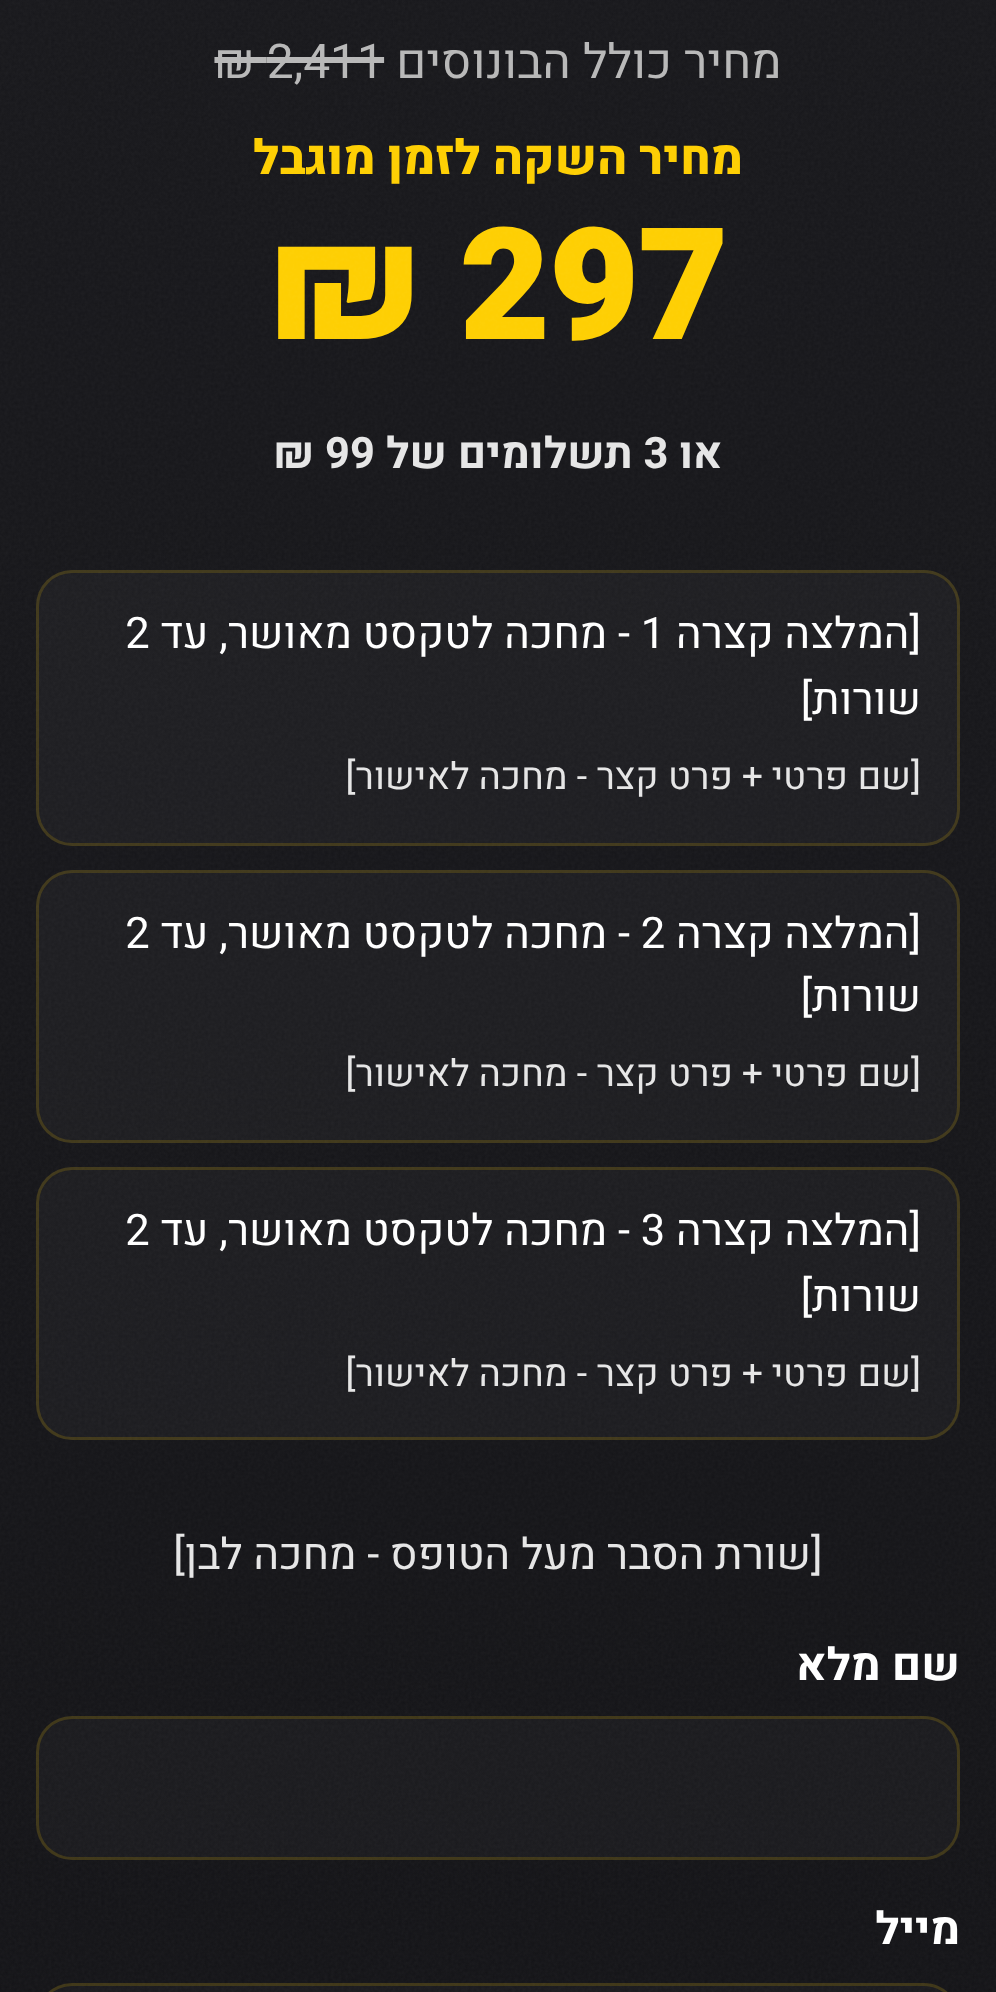
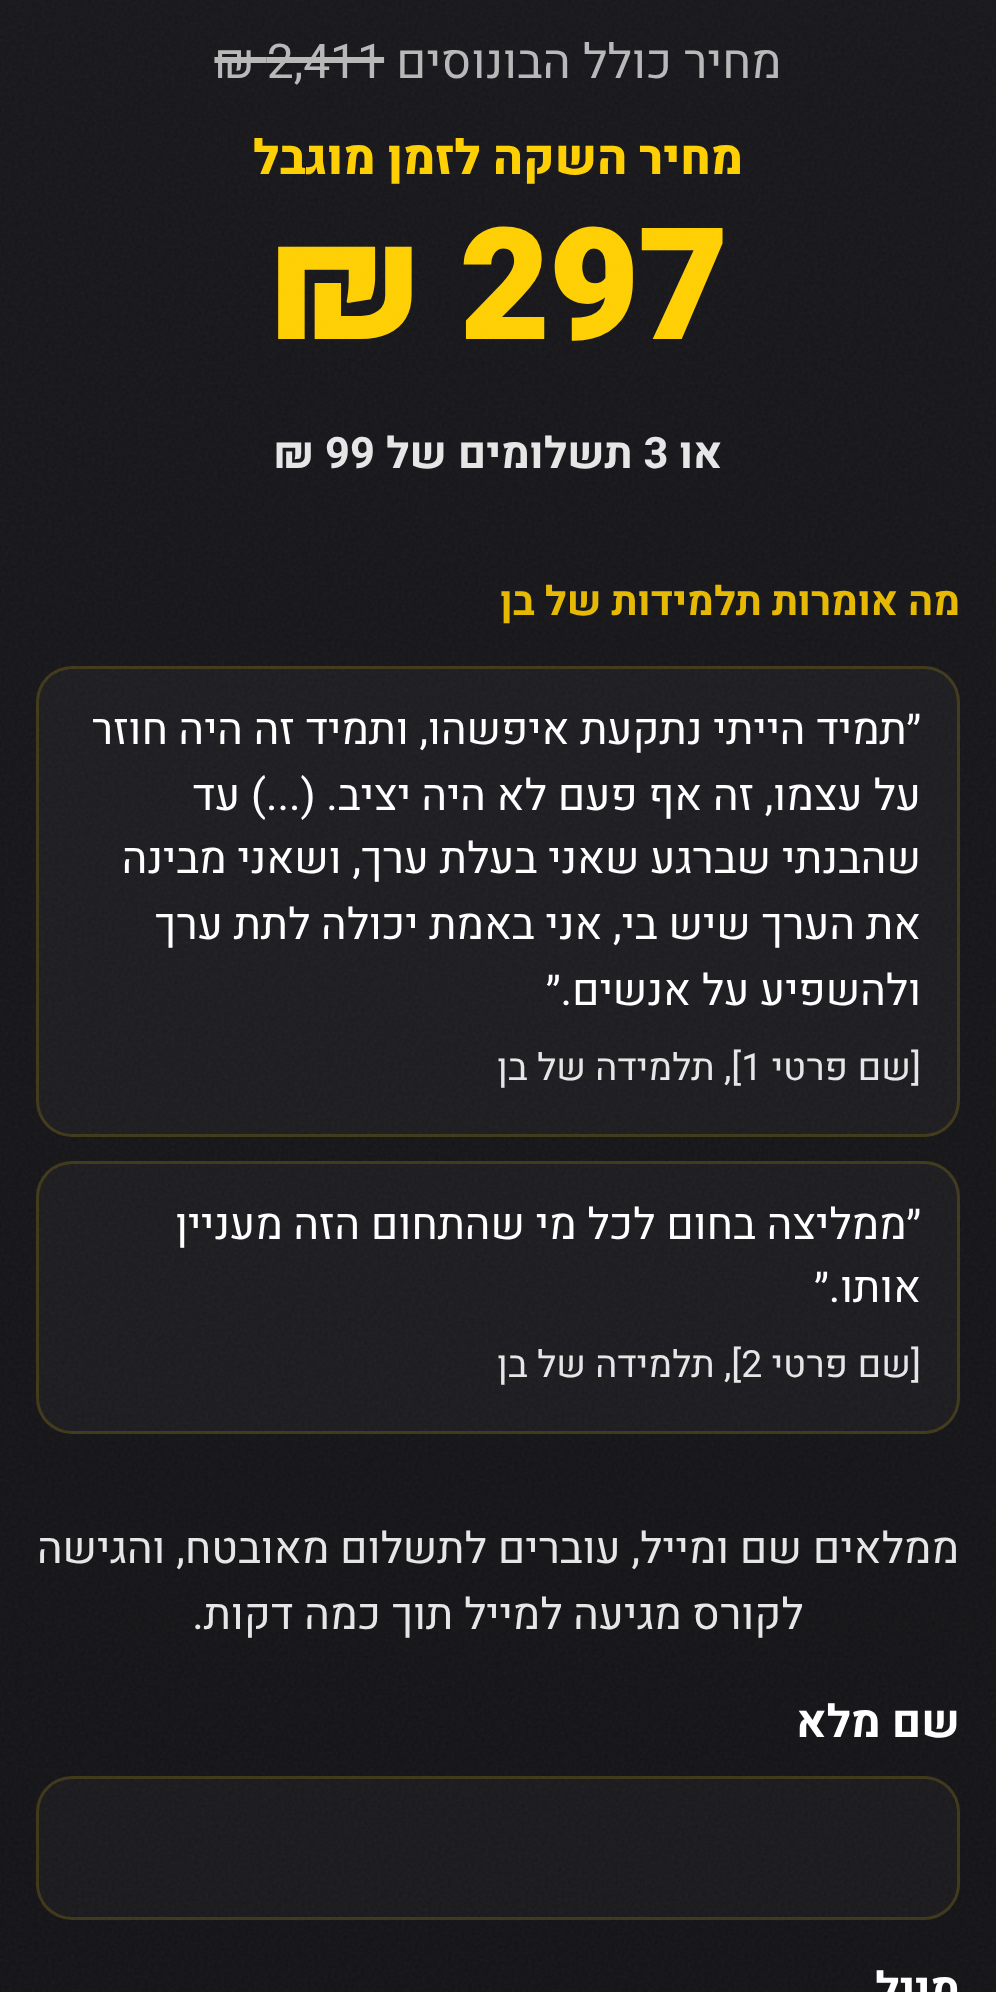
א27: Ben's approved testimonial texts for ב110 stage 2 (text only, heading, word-for-word quotes); names still placeholders, --live --quotes blocked until names arrive; stage 1 file unchanged; tests 25/25 x3
Claude-Session: https://claude.ai/code/session_01AWaDsUUa9CSR7XwcRd86aw

diff --git a/claude/b110/draft/a5s_b110v2_q.html b/claude/b110/draft/a5s_b110v2_q.html
@@ -947,7 +947,7 @@ html.lpf-in #sticky{opacity:0!important;pointer-events:none!important;transform:
 </div></div></section>
 <section id="offer" data-sec="3" data-name="ההצעה" data-buyzone data-stage="offer"><div class="wrap stack">
 <h2>כל מה שאתה צריך כדי שהשנה הבאה שלך תיראה אחרת.</h2>
-<div class="v4-ko"><ul class="v4-ko-list"><li><span>קורס הליבה "לנצח את האוטומט"</span><b>1,290 ₪</b></li><li><span>קורס מוקלט "ממחשבה לביצוע"</span><b>397 ₪</b></li><li><span>קורס מוקלט "כוחה של השפעה"</span><b>497 ₪</b></li><li><span>מחברת העבודה "אתגר 30 הימים"</span><b>79 ₪</b></li><li><span>ערכת התבניות "היום המנצח שלי"</span><b>59 ₪</b></li><li><span>המדריך "לדבר בביטחון ולהשפיע באמת"</span><b>89 ₪</b></li></ul><div class="v4-ko-tot"><span>שווי כולל:</span><b>2,411 ₪</b></div><div class="v4-ko-price"><p class="v4-ko-reg">מחיר כולל הבונוסים <s>2,411 ₪</s></p><p class="v4-ko-now"><span>מחיר השקה לזמן מוגבל</span> <b>297 ₪</b></p></div><p class="lpf-pay3">או 3 תשלומים של 99 ₪</p><div class="lpf-q" data-testimonials="price" aria-label="המלצות"><figure class="lpf-qc" data-quote="1"><blockquote>[המלצה קצרה 1 - מחכה לטקסט מאושר, עד 2 שורות]</blockquote><figcaption>[שם פרטי + פרט קצר - מחכה לאישור]</figcaption></figure><figure class="lpf-qc" data-quote="2"><blockquote>[המלצה קצרה 2 - מחכה לטקסט מאושר, עד 2 שורות]</blockquote><figcaption>[שם פרטי + פרט קצר - מחכה לאישור]</figcaption></figure></div><form class="lpf" id="lpForm1" data-form="1" novalidate><p class="lpf-how">ממלאים שם ומייל, עוברים לתשלום מאובטח, והגישה לקורס מגיעה למייל תוך כמה דקות.</p><label class="lpf-f"><b>שם מלא</b><input id="lfName1" name="name" autocomplete="name" maxlength="50" required></label><label class="lpf-f"><b>מייל</b><input id="lfEmail1" name="email" type="email" inputmode="email" autocomplete="email" dir="ltr" required></label><input class="lpf-hp" name="company" tabindex="-1" autocomplete="off" aria-hidden="true"><label class="lpf-c" data-box="one"><input type="checkbox" id="lfBox1" name="box" value="1" required><span>קראתי ואני מאשר/ת את <a href="terms.html" target="_blank" rel="noopener">התקנון</a> ו<a href="privacy.html" target="_blank" rel="noopener">מדיניות הפרטיות</a>, ומסכים/ה לקבל מבן נחום מיילים עם תוכן והצעות. אפשר להסיר בכל רגע.</span></label><p class="lpf-legal">מדיניות ביטול לעסקה זו הינה לפי חוק שירותי תשלום בישראל (<a href="terms.html" target="_blank" rel="noopener">תנאי ופרטי העסקה</a>).</p><p class="lpf-err" id="lfErr1" role="alert"></p><button class="cta" type="submit" data-cta="form1"><span class="ct-t">בן, אני רוצה להתחיל עכשיו</span> <span>←</span><span class="v4-pay"><svg class="v4-li" viewBox="0 0 24 24" aria-hidden="true"><rect x="5" y="11" width="14" height="9" rx="2"/><path d="M8 11V8a4 4 0 0 1 8 0v3"/></svg>תשלום מאובטח</span></button></form>
+<div class="v4-ko"><ul class="v4-ko-list"><li><span>קורס הליבה "לנצח את האוטומט"</span><b>1,290 ₪</b></li><li><span>קורס מוקלט "ממחשבה לביצוע"</span><b>397 ₪</b></li><li><span>קורס מוקלט "כוחה של השפעה"</span><b>497 ₪</b></li><li><span>מחברת העבודה "אתגר 30 הימים"</span><b>79 ₪</b></li><li><span>ערכת התבניות "היום המנצח שלי"</span><b>59 ₪</b></li><li><span>המדריך "לדבר בביטחון ולהשפיע באמת"</span><b>89 ₪</b></li></ul><div class="v4-ko-tot"><span>שווי כולל:</span><b>2,411 ₪</b></div><div class="v4-ko-price"><p class="v4-ko-reg">מחיר כולל הבונוסים <s>2,411 ₪</s></p><p class="v4-ko-now"><span>מחיר השקה לזמן מוגבל</span> <b>297 ₪</b></p></div><p class="lpf-pay3">או 3 תשלומים של 99 ₪</p><style>.lpf-qh{margin:0;font-size:13.5px;font-weight:700;color:var(--gold,#d4b06a);text-align:right}@media (min-width:760px){.lpf-qh{grid-column:1/-1}}</style><div class="lpf-q" data-testimonials="price" aria-label="המלצות"><p class="lpf-qh">מה אומרות תלמידות של בן</p><figure class="lpf-qc" data-quote="1"><blockquote>״תמיד הייתי נתקעת איפשהו, ותמיד זה היה חוזר על עצמו, זה אף פעם לא היה יציב. (...) עד שהבנתי שברגע שאני בעלת ערך, ושאני מבינה את הערך שיש בי, אני באמת יכולה לתת ערך ולהשפיע על אנשים.״</blockquote><figcaption>[שם פרטי 1], תלמידה של בן</figcaption></figure><figure class="lpf-qc" data-quote="2"><blockquote>״ממליצה בחום לכל מי שהתחום הזה מעניין אותו.״</blockquote><figcaption>[שם פרטי 2], תלמידה של בן</figcaption></figure></div><form class="lpf" id="lpForm1" data-form="1" novalidate><p class="lpf-how">ממלאים שם ומייל, עוברים לתשלום מאובטח, והגישה לקורס מגיעה למייל תוך כמה דקות.</p><label class="lpf-f"><b>שם מלא</b><input id="lfName1" name="name" autocomplete="name" maxlength="50" required></label><label class="lpf-f"><b>מייל</b><input id="lfEmail1" name="email" type="email" inputmode="email" autocomplete="email" dir="ltr" required></label><input class="lpf-hp" name="company" tabindex="-1" autocomplete="off" aria-hidden="true"><label class="lpf-c" data-box="one"><input type="checkbox" id="lfBox1" name="box" value="1" required><span>קראתי ואני מאשר/ת את <a href="terms.html" target="_blank" rel="noopener">התקנון</a> ו<a href="privacy.html" target="_blank" rel="noopener">מדיניות הפרטיות</a>, ומסכים/ה לקבל מבן נחום מיילים עם תוכן והצעות. אפשר להסיר בכל רגע.</span></label><p class="lpf-legal">מדיניות ביטול לעסקה זו הינה לפי חוק שירותי תשלום בישראל (<a href="terms.html" target="_blank" rel="noopener">תנאי ופרטי העסקה</a>).</p><p class="lpf-err" id="lfErr1" role="alert"></p><button class="cta" type="submit" data-cta="form1"><span class="ct-t">בן, אני רוצה להתחיל עכשיו</span> <span>←</span><span class="v4-pay"><svg class="v4-li" viewBox="0 0 24 24" aria-hidden="true"><rect x="5" y="11" width="14" height="9" rx="2"/><path d="M8 11V8a4 4 0 0 1 8 0v3"/></svg>תשלום מאובטח</span></button></form>
 <div class="paylogos" data-paylogos="offer"><ul class="pl-row" aria-hidden="true"><li data-pl="apple"><img src="assets/pay/apple-pay-mark.svg" alt="" width="41" height="26" loading="lazy" decoding="async"></li><li data-pl="google"><img src="assets/pay/google-pay-mark.svg" alt="" width="49" height="26" loading="lazy" decoding="async"></li><li data-pl="bit" hidden><img src="assets/pay/bit-mark.svg" alt="" width="41" height="26" loading="lazy" decoding="async"></li><li data-pl="card"><img src="assets/pay/card.svg" alt="" width="41" height="26" loading="lazy" decoding="async"></li></ul><p class="pl-t">אפשר לשלם ב-<bdi>Apple Pay</bdi>, <bdi>Google Pay</bdi> או אשראי</p><p class="pl-h" hidden></p></div>
 <p class="cta-micro">גישה מיידית לקורס ולבונוסים · החזר מלא תוך 7 ימים</p>
 <p class="cheap">פחות ממחיר של יציאה בערב. בשביל תהליך פרקטי שיכול לשנות את הדרך שבה אתה חי בכל יום. כי ערב אחד נגמר אחרי כמה שעות. אבל הכלים שתטמיע כאן נשארים איתך ומשפיעים לך על חוויה של חיים שלמים.</p></div>

diff --git a/claude/b110/t_b110v2.js b/claude/b110/t_b110v2.js
@@ -30,10 +30,11 @@ const PAGE = "https://local.test/nlp/" + PFILE;
    ok("fields: name, email, one box (unchecked), no phone", st.fields === "name,email,box" && st.boxUnchecked && !st.phone, st);
    ok("one visible box (second box hidden in BOX_MODE one_required)", await X.p.evaluate(() => [...document.querySelectorAll("#lpForm1 .lpf-c")].filter(l => getComputedStyle(l).display !== "none").length === 1));
    ok("noindex kept", st.noindex, st);
+   await X.p.evaluate(q => { window.__Q27 = q }, ["״תמיד הייתי נתקעת איפשהו, ותמיד זה היה חוזר על עצמו, זה אף פעם לא היה יציב. (...) עד שהבנתי שברגע שאני בעלת ערך, ושאני מבינה את הערך שיש בי, אני באמת יכולה לתת ערך ולהשפיע על אנשים.״", "[שם פרטי 1], תלמידה של בן", "״ממליצה בחום לכל מי שהתחום הזה מעניין אותו.״", "[שם פרטי 2], תלמידה של בן"]);
    const tq = await X.p.evaluate(() => { const q = document.querySelector('[data-testimonials="price"]'), f1 = document.getElementById("lpForm1"), pr = document.querySelector("#offer .v4-ko-now");
-     return { n: q ? q.querySelectorAll("[data-quote]").length : 0, ph: q ? [...q.querySelectorAll("blockquote")].every(b => /^\[.*מחכה/.test(b.innerText.trim())) : false,
+     return { n: q ? q.querySelectorAll("[data-quote]").length : 0, ph: q ? JSON.stringify([...q.querySelectorAll("blockquote,figcaption")].map(b => b.innerText.trim())) === JSON.stringify(window.__Q27 || []) : false, head: q ? (q.querySelector(".lpf-qh") || {}).innerText === "מה אומרות תלמידות של בן" : false, media: q ? q.querySelectorAll("img,video,iframe,picture,svg").length : -1,
        afterPrice: !!(q && (pr.compareDocumentPosition(q) & Node.DOCUMENT_POSITION_FOLLOWING)), beforeForm: !!(q && (q.compareDocumentPosition(f1) & Node.DOCUMENT_POSITION_FOLLOWING)), inOffer: !!(q && q.closest("#offer")) } });
-   if (QUOTES) ok("ב114 stage 2: testimonials block (2 placeholders) between the price and the form", tq.n === 2 && tq.ph && tq.afterPrice && tq.beforeForm && tq.inOffer, tq);
+   if (QUOTES) ok("א27 stage 2: heading + 2 approved quotes word for word, text only, between the price and the form", tq.n === 2 && tq.ph && tq.head && tq.media === 0 && tq.afterPrice && tq.beforeForm && tq.inOffer, tq);
    else ok("stage 1 (form only): no testimonials block", tq.n === 0, tq);
    const wd = await X.p.evaluate(() => { const f = document.getElementById("lpForm1"), l = f.querySelector('[data-box="one"]');
      return { btn: f.querySelector("button .ct-t").innerText.trim(), how: f.querySelector(".lpf-how").innerText.trim(), box: l.innerText.replace(/\s+/g, " ").trim(),

diff --git a/claude/b110/build_b110v2.py b/claude/b110/build_b110v2.py
@@ -44,11 +44,15 @@ def form(n):
 m = re.search(r'<a class="cta" data-cta="offer" data-checkout href="#">.*?</a>', s, re.S); assert m
 # ב114 (20.11): בלוק של 2 המלצות קצרות מתחת למחיר ולפני הטופס (בן אישר 2). סימונים עד שהטקסטים מגיעים מצ'אט האורגני דרך יהב.
 # רק עם --quotes (שלב 2, 3 ימים אחרי הטופס)
-TESTI = ('<div class="lpf-q" data-testimonials="price" aria-label="המלצות">'
-         + ''.join('<figure class="lpf-qc" data-quote="%d"><blockquote>[המלצה קצרה %d - מחכה לטקסט מאושר, עד 2 שורות]</blockquote>'
-                   '<figcaption>[שם פרטי + פרט קצר - מחכה לאישור]</figcaption></figure>' % (i, i) for i in (1, 2))
+# א27 (20.11, בן אישר): טקסט בלבד, בלי תמונה/וידאו/סימן מים. הציטוטים מילה במילה. השמות - סימונים עד שיגיעו.
+Q27 = [("״תמיד הייתי נתקעת איפשהו, ותמיד זה היה חוזר על עצמו, זה אף פעם לא היה יציב. (...) עד שהבנתי שברגע שאני בעלת ערך, ושאני מבינה את הערך שיש בי, אני באמת יכולה לתת ערך ולהשפיע על אנשים.״", "[שם פרטי 1], תלמידה של בן"),
+       ("״ממליצה בחום לכל מי שהתחום הזה מעניין אותו.״", "[שם פרטי 2], תלמידה של בן")]
+TESTI = ('<div class="lpf-q" data-testimonials="price" aria-label="המלצות"><p class="lpf-qh">מה אומרות תלמידות של בן</p>'
+         + ''.join('<figure class="lpf-qc" data-quote="%d"><blockquote>%s</blockquote><figcaption>%s</figcaption></figure>' % (i + 1, q, c) for i, (q, c) in enumerate(Q27))
          + '</div>') if QUOTES else ''
-s = s[:m.start()] + '<p class="lpf-pay3">או 3 תשלומים של 99 ₪</p>' + TESTI + form(1) + s[m.end():]
+if LIVE and QUOTES: assert '[' not in TESTI, 'שמות ההמלצות עוד לא הגיעו - לא עולים'
+QCSS = '<style>.lpf-qh{margin:0;font-size:13.5px;font-weight:700;color:var(--gold,#d4b06a);text-align:right}@media (min-width:760px){.lpf-qh{grid-column:1/-1}}</style>' if QUOTES else ''  # רק בשלב 2, כדי שקובץ שלב 1 יישאר זהה
+s = s[:m.start()] + '<p class="lpf-pay3">או 3 תשלומים של 99 ₪</p>' + QCSS + TESTI + form(1) + s[m.end():]
 # 2. טופס בסוף הדף, אחרי השאלות הנפוצות (במקום הכפתור האחרון)
 m = re.search(r'<a class="cta" data-cta="final" data-checkout href="#">.*?</a>', s, re.S); assert m
 pl = re.search(r'<div class="paylogos" data-paylogos="offer">.*?</div>', s, re.S).group(0).replace('data-paylogos="offer"', 'data-paylogos="final"')

diff --git a/claude/b110/README_v2.md b/claude/b110/README_v2.md
@@ -131,3 +131,14 @@ node t_b110v2.js <root> <main> "" <file>
 **צילומים:** `shots/b110f_stage1_*` ו-`shots/b110f_stage2_*`.
 
 **ביט (ב114):** בן פונה לקארדקום. כשמגיע אישור: דף בדיקה, ורק אחר כך הלוגו, ב"מאשר".
+
+## א27 (20.11): הטקסטים של ההמלצות לשלב 2 (בן אישר)
+- **בבלוק של 2 הכרטיסים:** טקסט בלבד, בלי תמונה, בלי וידאו ובלי סימן המים.
+- **כותרת קטנה:** "מה אומרות תלמידות של בן".
+- **הציטוטים:** מילה במילה, כולל (...). הבדיקה משווה את הטקסט בדיוק.
+- **השמות:** עדיין סימונים (`[שם פרטי 1]`, `[שם פרטי 2]`), עד שיגיעו.
+  - **שער:** `--live --quotes` נכשל כל עוד נשאר `[` בבלוק ההמלצות. אי אפשר לבנות את קובץ הפריסה בלי השמות.
+- **ה-CSS של הכותרת:** נכנס רק עם `--quotes`. קובץ שלב 1 נשאר זהה בייט לבייט למה שאושר.
+- **בדיקות:** 25/25 בכל אחד מהשלושה (טיוטה, טיוטה עם המלצות, live1).
+- **עלייה:** 25.11, רק ב"מאשר" נפרד של יהב, ואחרי שלב 1. לרשום את השעה במסמך.
+- **לא נגעתי:** on_1711, דפים אחרים, הסליקה, Make.
